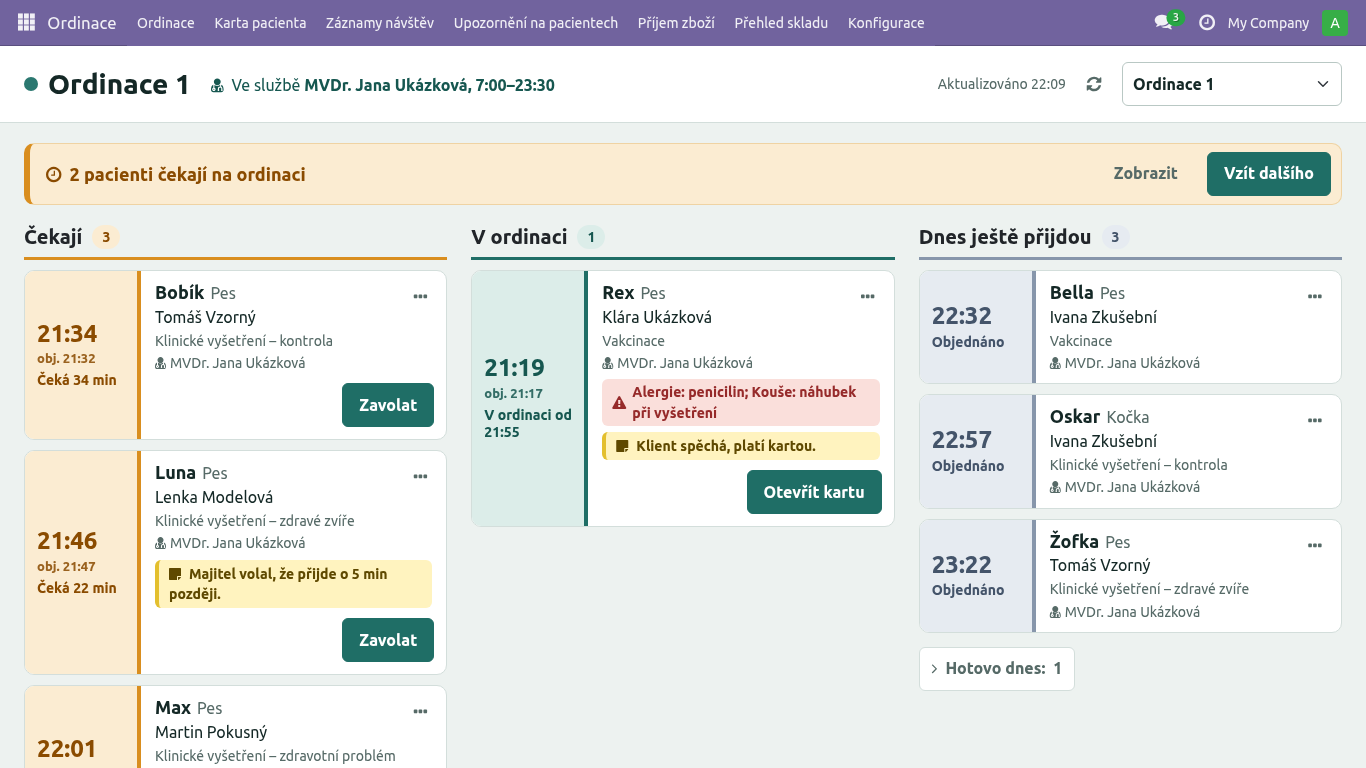
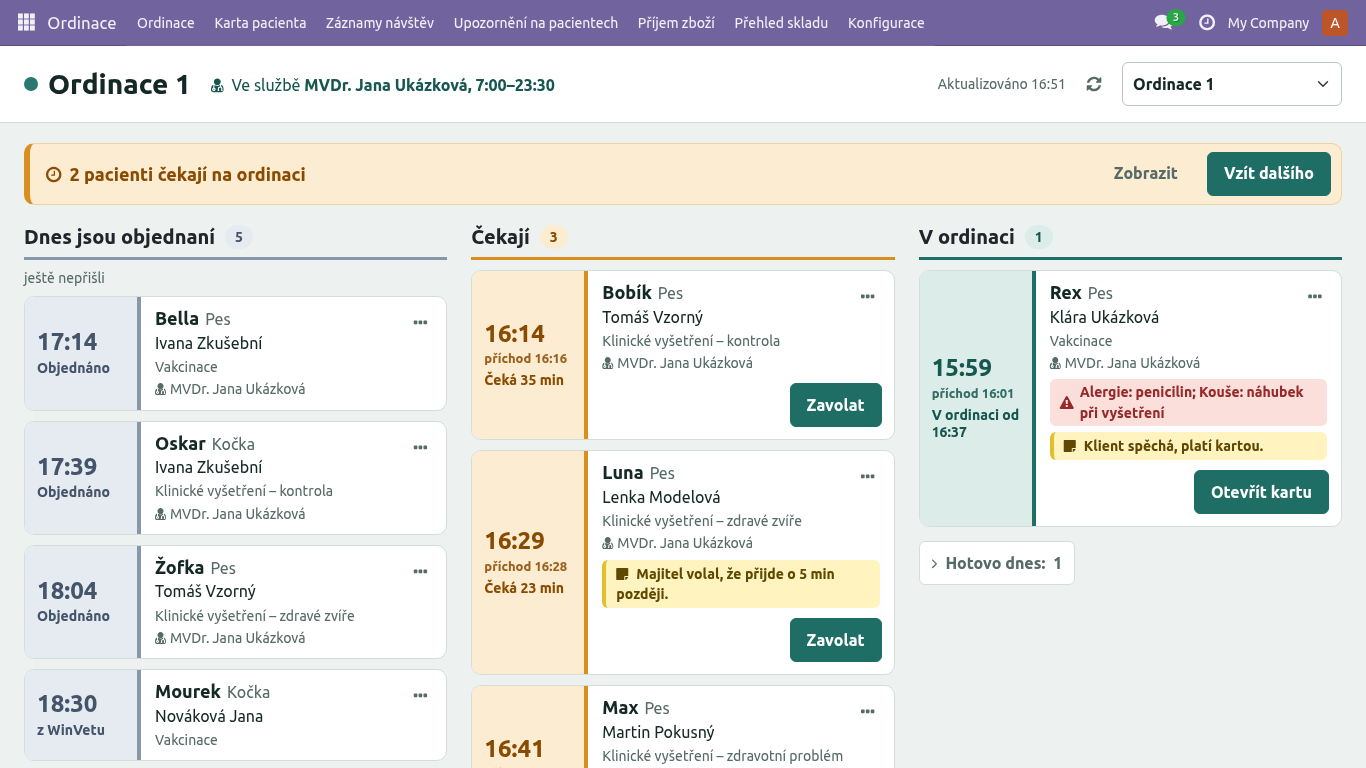
feat(elite-vet): Ordinace – Dnes jsou objednaní first, then Čekají and V ordinaci
Feedback 26. 10.: the one-room flow reads left to right as the day goes – Dnes jsou objednaní
("ještě nepřišli", empty: "Všichni objednaní už přišli.") | Čekají | V ordinaci, Hotovo dnes
folded under the last one. Same names and order in the Všechny ordinace columns and in Moji
pacienti dnes. Below 1100 px (tablet, 1024 landscape) the stacked list puts Čekají first, then
V ordinaci, then Dnes jsou objednaní – waiting patients matter most when space is short. Guides
and screenshots updated (made-up data), plus the screenshot of Spárovat… from task 30.

diff --git a/elite_vet/elite_vet_reception/static/src/room_board/room_board.js b/elite_vet/elite_vet_reception/static/src/room_board/room_board.js
@@ -3,7 +3,8 @@
 // by consultation room. Top switch Všechny ordinace | <room> …:
 // - Všechny ordinace: columns Nepřiřazení + one per room; arrived patients are dragged between
 //   columns (or "…" › Do jiné ordinace on touch screens).
-// - one room: the flow Čekají | V ordinaci | Dnes ještě přijdou (Hotovo dnes folded under it),
+// - one room: the flow Dnes jsou objednaní | Čekají | V ordinaci (Hotovo dnes folded under the
+//   last one; stacked on narrow screens: Čekají, V ordinaci, Dnes jsou objednaní – CSS order),
 //   above it one bar with the unassigned patients: Vzít dalšího / Zobrazit.
 // Task 26: one design system (.ev-clinic, elite_vet_clinic/static/src/clinic_ui), every patient
 // is the shared visit tile with one primary action by state and the rest in the "…" menu.
@@ -24,11 +25,12 @@ const POLL_MS = 30000;
 const VIEW_KEY = "elite_vet_reception.room_view";   // remembered choice of this browser
 const ALL = "all";
 
-// Left to right in the room, top to bottom in a column of Všechny ordinace; Hotovo is folded.
+// Left to right in the room, top to bottom in a column of Všechny ordinace; Hotovo is folded
+// under the last one. Feedback 26. 10.: the day reads from the booked ones to the room.
 export const ROOM_SECTIONS = [
+    { key: "booked", title: "Dnes jsou objednaní", hint: "ještě nepřišli", empty: "Všichni objednaní už přišli." },
     { key: "waiting", title: "Čekají", empty: "Nikdo nečeká." },
     { key: "in_room", title: "V ordinaci", empty: "V ordinaci nikdo není." },
-    { key: "booked", title: "Dnes ještě přijdou", empty: "Dnes už nikdo objednaný." },
 ];
 
 function errorMessage(e) { return e?.data?.message || e?.message || String(e); }

diff --git a/elite_vet/elite_vet_reception/static/src/room_board/room_board.scss b/elite_vet/elite_vet_reception/static/src/room_board/room_board.scss
@@ -40,9 +40,12 @@
 .evrm-bar-toggle { color: var(--ev-waiting); &:hover:not(:disabled) { background: rgba(255, 255, 255, .6); color: var(--ev-ink); } }
 .evrm-bar-list { margin: 8px 0 4px; }
 
-// the flow: Čekají | V ordinaci | Dnes ještě přijdou
+// the flow: Dnes jsou objednaní | Čekají | V ordinaci (Hotovo under the last one)
 .evrm-flow { display: grid; grid-template-columns: repeat(3, minmax(0, 1fr)); gap: 24px; align-items: start; }
 .evrm-stage { min-width: 0; }
+// "ještě nepřišli" under Dnes jsou objednaní: the arrived ones are in Čekají / V ordinaci
+.evrm-section-hint { margin: -2px 0 8px; font-size: var(--ev-fs-meta); color: var(--ev-muted); }
+.evrm-section .evrm-section-hint { margin: -6px 0 0; }
 .evrm-done { margin-top: 14px; display: flex; flex-direction: column; gap: 10px; }
 .evrm-done-toggle {
     align-self: flex-start; display: inline-flex; align-items: center; gap: 8px; min-height: 44px; padding: 0 12px;
@@ -96,8 +99,12 @@
     .evrm-flow { gap: 16px; }
 }
 @media (max-width: 1099.98px) {
-    // tablet: the flow becomes a list (Čekají, V ordinaci, Dnes ještě přijdou)
+    // tablet (also 1024 px landscape): the flow becomes a list and the waiting patients come first
+    // (Čekají, V ordinaci with Hotovo, Dnes jsou objednaní) – they matter most when space is short
     .evrm-flow { grid-template-columns: minmax(0, 1fr); gap: 24px; }
+    .evrm-stage.ev-group-waiting { order: 1; }
+    .evrm-stage.ev-group-in_room { order: 2; }
+    .evrm-stage.ev-group-booked { order: 3; }
     .evrm-toolbar { padding: 12px 16px; }
     .evrm-room { padding: 16px; }
     .evrm-columns { padding: 12px 16px; }

diff --git a/elite_vet/elite_vet_reception/static/src/patient_card_patch/patient_card_patch.js b/elite_vet/elite_vet_reception/static/src/patient_card_patch/patient_card_patch.js
@@ -1,6 +1,6 @@
 /** @odoo-module **/
-// Staged "Moji pacienti dnes" of the patient card (elite_vet_clinic): Čekají (Zavolat),
-// V ordinaci, Objednaní – ještě nepřišli, Hotovo dnes. Items come from my_patients_today
+// Staged "Moji pacienti dnes" of the patient card (elite_vet_clinic): Dnes jsou objednaní
+// (ještě nepřišli), Čekají (Zavolat), V ordinaci, Hotovo dnes; narrow screens: Čekají first. Items come from my_patients_today
 // (extended in models/patient_card.py with group, visit_stage, arrived_time, waiting_minutes).
 // Ruling R5: opening the card on today's waiting record calls the patient in (once).
 import { onWillUnmount, useState } from "@odoo/owl";
@@ -15,9 +15,10 @@ const POLL_MS = 30000;
 
 // Task 26: the same names, order and state colours as the screen Ordinace.
 export const PATIENT_GROUPS = [
+    { key: "arriving", state: "booked", title: "Dnes jsou objednaní", hint: "ještě nepřišli",
+      empty: "Všichni objednaní už přišli." },
     { key: "waiting", state: "waiting", title: "Čekají", empty: "Nikdo nečeká." },
     { key: "in_room", state: "in_room", title: "V ordinaci", empty: "V ordinaci nikdo není." },
-    { key: "arriving", state: "booked", title: "Dnes ještě přijdou", empty: "Všichni objednaní už přišli." },
     { key: "done", state: "done", title: "Hotovo dnes", empty: "Zatím nic hotového." },
 ];
 

diff --git a/elite_vet/elite_vet_reception/static/src/patient_card_patch/patient_card_patch.scss b/elite_vet/elite_vet_reception/static/src/patient_card_patch/patient_card_patch.scss
@@ -1,6 +1,14 @@
 // Staged "Moji pacienti dnes" (patch of elite_vet_clinic's patient card start screen).
 // Task 26: tiles, group heads and counts come from clinic_ui.scss (.ev-clinic).
 .evrc-groups { display: grid; gap: 28px; }
+.evrc-group-hint { margin: -2px 0 8px; font-size: var(--ev-fs-meta); color: var(--ev-muted); }
+// same as the screen Ordinace: on narrow screens the waiting patients first
+@media (max-width: 1099.98px) {
+    .evrc-group-waiting { order: 1; }
+    .evrc-group-in_room { order: 2; }
+    .evrc-group-arriving { order: 3; }
+    .evrc-group-done { order: 4; }
+}
 .evrc-row { display: flex; align-items: stretch; gap: 10px; }
 .evrc-row .evpc-today-row { flex: 1; min-width: 0; }
 .evrc-call { align-self: center; min-width: 120px; }

diff --git a/elite_vet/elite_vet_reception/models/winvet_calendar.py b/elite_vet/elite_vet_reception/models/winvet_calendar.py
@@ -82,7 +82,7 @@ class ReceptionWinvetCalendar(models.AbstractModel):
 
     @api.model
     def _winvet_room_booked(self, day):
-        """Items of "Dnes ještě přijdou" on the screen Ordinace for today's WinVet client
+        """Items of "Dnes jsou objednaní" on the screen Ordinace for today's WinVet client
         appointments (`_winvet_client_events`) in the first mapped room of the entry; a pet paired
         at the reception counts like a WinVet match (Otevřít kartu), without one: Spárovat…."""
         if not calendar_enabled(self.env):
@@ -111,7 +111,7 @@ class ReceptionWinvetCalendar(models.AbstractModel):
 
     @api.model
     def room_board(self, day=None):
-        """WinVet appointments of the day join "Dnes ještě přijdou" of their room (read-only)."""
+        """WinVet appointments of the day join "Dnes jsou objednaní" of their room (read-only)."""
         data = super().room_board(day)
         extra = self._winvet_room_booked(self._day(day))
         for column in data["columns"]:

diff --git a/elite_vet/elite_vet_reception/README.md b/elite_vet/elite_vet_reception/README.md
@@ -52,7 +52,7 @@ záznamy pod sudo – recepce sama do záznamu psát nesmí. Den a časy jsou v 
   `source` `winvet`, zvíře a klient = `effective_pet_id` / `effective_partner_id` (WinVet, jinak
   spárované v Odoo), úkol 30: `needs_pairing` (bez zvířete → Spárovat…), `paired_manually`,
   `winvet_title`, `search_hint` (začátek textu pro Kartotéku); řazeno podle času. Stejná pravidla
-  a pole mají objednávky WinVetu v `room_board` › Dnes ještě přijdou.
+  a pole mají objednávky WinVetu v `room_board` › Dnes jsou objednaní (`booked`).
 - **waiting** – rozepsané záznamy dne se stavem návštěvy, podle příchodu:
   `record_id, pet_name, owner, doctor, room, stage, stage_label, arrived_time, waiting_minutes,
   reception_note, walk_in` (u V ordinaci minuty od příchodu do zavolání; `walk_in` = bez rezervace
@@ -357,8 +357,10 @@ Recepce a výš). Params `{room_id}` otevře jednu ordinaci. Návod: [doc/ordina
 - **Vzhled (úkol 26):** jeden designový systém pro klinické obrazovky – tokeny, dlaždice pacienta
   (`elite_vet_clinic.VisitTileBody`, `visitTile()`), tlačítka a nabídka „…“ jsou v
   `elite_vet_clinic/static/src/clinic_ui/`, kořen obrazovky má třídu `.ev-clinic`. Jedna ordinace:
-  pruh Nepřiřazení (Vzít dalšího / Zobrazit) a sloupce Čekají | V ordinaci | Dnes ještě přijdou
-  (Hotovo dnes sbalené). U pacienta jedno hlavní tlačítko podle stavu (Čeká → Zavolat, V ordinaci →
+  pruh Nepřiřazení (Vzít dalšího / Zobrazit) a sloupce Dnes jsou objednaní (ještě nepřišli) |
+  Čekají | V ordinaci (Hotovo dnes sbalené pod posledním); pod 1100 px pod sebou s Čekají první
+  (CSS `order`: Čekají, V ordinaci, Dnes jsou objednaní). Části sloupce Všech ordinací mají stejné
+  pořadí a názvy (`ROOM_SECTIONS`). Klíč části zůstává `booked`. U pacienta jedno hlavní tlačítko podle stavu (Čeká → Zavolat, V ordinaci →
   Otevřít kartu), ostatní v nabídce „…“ (komponenta `RoomMenu`, Odoo `Dropdown`): Otevřít kartu,
   Poznámka recepce… (`set_reception_note`), Do jiné ordinace (`assign_room`). Přepínač ordinací je
   `<select>`.
@@ -378,16 +380,16 @@ Recepce a výš). Params `{room_id}` otevře jednu ordinaci. Návod: [doc/ordina
 - `unassigned` (nový klíč odpovědi, pravidlo R17): dnešní rozepsaní neobjednaní bez lékařky ve stavu
   Čeká / V ordinaci, stejný tvar jako `items`. Plní se jen u filtrovaného seznamu lékařky (nefiltrovaný
   je má v `items`); úvodní obrazovka je ukazuje v Čekají s poznámkou „kterákoli lékařka“.
-- Skupiny: **Čekají** (rozepsaný záznam ve stavu Čeká, podle příchodu, „Čeká 6 min“,
-  tlačítko Zavolat), **V ordinaci**, **Dnes ještě přijdou** (rezervace bez záznamu nebo se
-  záznamem bez stavu), **Hotovo dnes** (uzavřený záznam; také rezervace ve stavu Proběhlá bez záznamu).
+- Skupiny (pořadí jako na obrazovce Ordinace, pod 1100 px Čekají první): **Dnes jsou objednaní**
+  (ještě nepřišli; rezervace bez záznamu nebo se záznamem bez stavu), **Čekají** (rozepsaný záznam
+  ve stavu Čeká, podle příchodu, „Čeká 6 min“, tlačítko Zavolat), **V ordinaci**, **Hotovo dnes** (uzavřený záznam; také rezervace ve stavu Proběhlá bez záznamu).
 - Neobjednaní (dnešní záznamy se stavem návštěvy bez rezervace, `walk_in: true`, `reservation_id: None`)
   jsou v `items` podle lékařky záznamu; bez lékařky jsou v `unassigned`.
 - **Zavolat** = `elite.vet.reception.call_patient(record_id)`, pak se otevře karta zvířete. Záznam bez
   lékařky dostane lékařku volajícího uživatele (když je spárovaný); tlačítko je během volání neaktivní.
 - Řádek je sdílená dlaždice pacienta (úkol 26, `patientTile()` → `visitTile()`): velký čas příchodu
   (nebo rezervace), „obj. 9:20“ / „bez objednání“, stav „Čeká 6 min“ / „V ordinaci od 9:30“, u
-  Dnes ještě přijdou a Hotovo štítek záznamu (Bez záznamu, Rozepsaný, Hotovo – k pokladně).
+  Dnes jsou objednaní a Hotovo štítek záznamu (Bez záznamu, Rozepsaný, Hotovo – k pokladně).
 - Pravidlo R5: když sestra nebo lékařka otevře kartu (ze seznamu, z tabule, z hledání …) a dnešní
   záznam je ve stavu Čeká, karta jednou zavolá `call_patient`; `card_data` zůstává jen pro čtení.
   Chyba (např. role recepce) se tiše ignoruje. `_record_data` proto nese i `visit_stage`, a od

diff --git a/elite_vet/elite_vet_reception/doc/ordinace.md b/elite_vet/elite_vet_reception/doc/ordinace.md
@@ -59,10 +59,10 @@ Pod ním jsou sloupce **Nepřiřazení** a pak jedna ordinace vedle druhé. V hl
 kdo v ní **teď slouží** (podle Rozpisu lékařů), nebo „Teď nikdo ve službě“.
 
 Ve sloupci jsou části ve stejném pořadí jako v jedné ordinaci:
+- **Dnes jsou objednaní** (ještě nepřišli): dnešní objednávky této ordinace, klient ještě nedorazil
+  nebo ho recepce ještě nepřijala. Tyto karty nejdou přesouvat,
 - **Čekají**: pacient přišel a recepce ho přijala,
 - **V ordinaci**: pacient je zavolaný,
-- **Dnes ještě přijdou**: dnešní rezervace této ordinace, klient ještě nepřišel. Tyto karty nejdou
-  přesouvat,
 - **Hotovo dnes: N**: uzavřené návštěvy, sbalené; klikem se rozbalí.
 
 Prázdná část se neukazuje; prázdná ordinace má jen „Nikdo tu není.“
@@ -85,9 +85,14 @@ oranžový pruh „**2 pacienti čekají na ordinaci**“:
 - **Vzít dalšího** vezme do této ordinace toho, kdo čeká **nejdéle**;
 - **Zobrazit** rozbalí jejich seznam; u každého je **Vzít do této ordinace**.
 
-Pod pruhem jsou zleva doprava tři sloupce: **Čekají** (nejdéle čekající nahoře) | **V ordinaci** |
-**Dnes ještě přijdou**. Pod posledním je sbalené **Hotovo dnes: N**. Prázdný sloupec má jen
-krátký řádek („Nikdo nečeká.“). Na tabletu na výšku jsou sloupce pod sebou ve stejném pořadí.
+Pod pruhem jsou zleva doprava tři sloupce, jak den plyne: **Dnes jsou objednaní** (ještě
+nepřišli) | **Čekají** (nejdéle čekající nahoře) | **V ordinaci**. Pod posledním je sbalené
+**Hotovo dnes: N**. Prázdný sloupec má jen krátký řádek („Všichni objednaní už přišli.“,
+„Nikdo nečeká.“). Kdo přišel, už mezi objednanými není – je v Čekají nebo V ordinaci.
+
+Na užší obrazovce (tablet, i 1024 px na šířku) jsou sloupce pod sebou a **Čekají jsou první**,
+pak V ordinaci (s Hotovo dnes) a nakonec Dnes jsou objednaní – když je málo místa, jsou
+nejdůležitější pacienti, kteří už čekají.
 
 - **Zavolat** (u čekajícího): pacient jde do stavu V ordinaci a do této ordinace.
 - **Otevřít kartu** (u pacienta v ordinaci, ostatní v nabídce …): otevře kartu pacienta na dnešní
@@ -121,9 +126,12 @@ lékařka, která v té ordinaci **teď slouží** podle Rozpisu lékařů.
   (nabídka …). Zavolat může jen sestra nebo lékařka.
 
 **Objednávky z WinVetu bez karty.** Objednávka z WinVetu, ve které je jen text (bez pacienta),
-je v „Dnes ještě přijdou“ s textem z WinVetu. V nabídce **…** je **Spárovat…**: otevře Kartotéku
+je v „Dnes jsou objednaní“ s textem z WinVetu. V nabídce **…** je **Spárovat…**: otevře Kartotéku
 (stejnou jako v pokladně), kde najdete nebo založíte klienta a zvíře a stisknete **Přiřadit
-k objednávce**. Pak je u objednávky zvíře a v nabídce **Otevřít kartu**. Spárovat můžou recepce,
+k objednávce**. Pak je u objednávky zvíře a v nabídce **Otevřít kartu**.
+
+![Spárovat s objednávkou z WinVetu](img/ordinace-sparovat.png)
+ Spárovat můžou recepce,
 sestra i lékařka; uloží se jen v Odoo (viz návod Recepce v pokladně › Objednaní ve WinVetu).
 
 „Moji pacienti dnes“ v kartě pacienta ukazují lékařce s vlastním účtem její dnešní pacienty.

diff --git a/elite_vet/elite_vet_reception/doc/recepce-v-pokladne.md b/elite_vet/elite_vet_reception/doc/recepce-v-pokladne.md
@@ -142,6 +142,10 @@ WinVetu jako vyřízené se neukazují.
   **+ Nové zvíře**), vyberte zvíře a stiskněte **Přiřadit k objednávce**. Potom má řádek zvíře
   a **Přijmout** jako ostatní; obrazovka Ordinace u objednávky nabídne Otevřít kartu a tabule
   ukazuje jméno zvířete.
+
+  ![Spárovat s objednávkou z WinVetu](img/ordinace-sparovat.png)
+
+  (Na obrázku je stejný dialog otevřený z obrazovky Ordinace.)
 - Spárování se uloží **jen v Odoo**, ve WinVetu se nic nemění a další přenos z WinVetu ho
   nepřepíše. Když ve WinVetu objednávce pacienta doplní, platí ten z WinVetu.
 - **Zrušit spárování** (u spárovaného řádku a v dialogu Spárovat…) vrátí objednávku mezi
@@ -523,10 +527,13 @@ Pacient vypadá stejně jako na obrazovce Ordinace: vlevo barevný pruh s časem
 
 | Skupina | Kdo v ní je |
 |---|---|
+| **Dnes jsou objednaní** (ještě nepřišli) | dnešní rezervace, které recepce ještě nepřijala |
 | **Čekají** | recepce je přijala, podle příchodu: velký čas příchodu, „Čeká 6 min“, tlačítko **Zavolat**. Neobjednaní mají „bez objednání“; neobjednaní bez lékařky mají „**Kterákoli lékařka**“ a vidí je všechny lékařky. |
 | **V ordinaci** | zavolaní, „V ordinaci od 18:15“ |
-| **Dnes ještě přijdou** | dnešní rezervace, které recepce ještě nepřijala |
 | **Hotovo dnes** | uzavřené návštěvy (Hotovo, k pokladně) |
+
+Pořadí je stejné jako na obrazovce Ordinace; na užší obrazovce (pod 1100 px) jsou Čekají první,
+pak V ordinaci, Dnes jsou objednaní a Hotovo dnes.
 
 Seznam se obnovuje sám, jakmile recepce někoho přijme (záložně každých 30 s).
 

diff --git a/elite_vet/nasazeni/UPGRADE-2026-10.md b/elite_vet/nasazeni/UPGRADE-2026-10.md
@@ -898,3 +898,8 @@ SELECT count(*) AS sparovano FROM elite_vet_winvet_calendar_event WHERE manual_p
 
 **Tip pro kliniku:** ve WinVetu při objednávání vždy vyberte pacienta (nejen text). Taková
 objednávka se v Odoo spáruje sama.
+
+Ve stejné větvi (stejný `-u`, jen vzhled): obrazovka Ordinace a Moji pacienti dnes mají pořadí
+**Dnes jsou objednaní** (dřív „Dnes ještě přijdou“, s řádkem „ještě nepřišli“) | **Čekají** |
+**V ordinaci**, Hotovo dnes sbalené pod posledním. Na užší obrazovce (pod 1100 px) jsou pod sebou
+s Čekají první.
